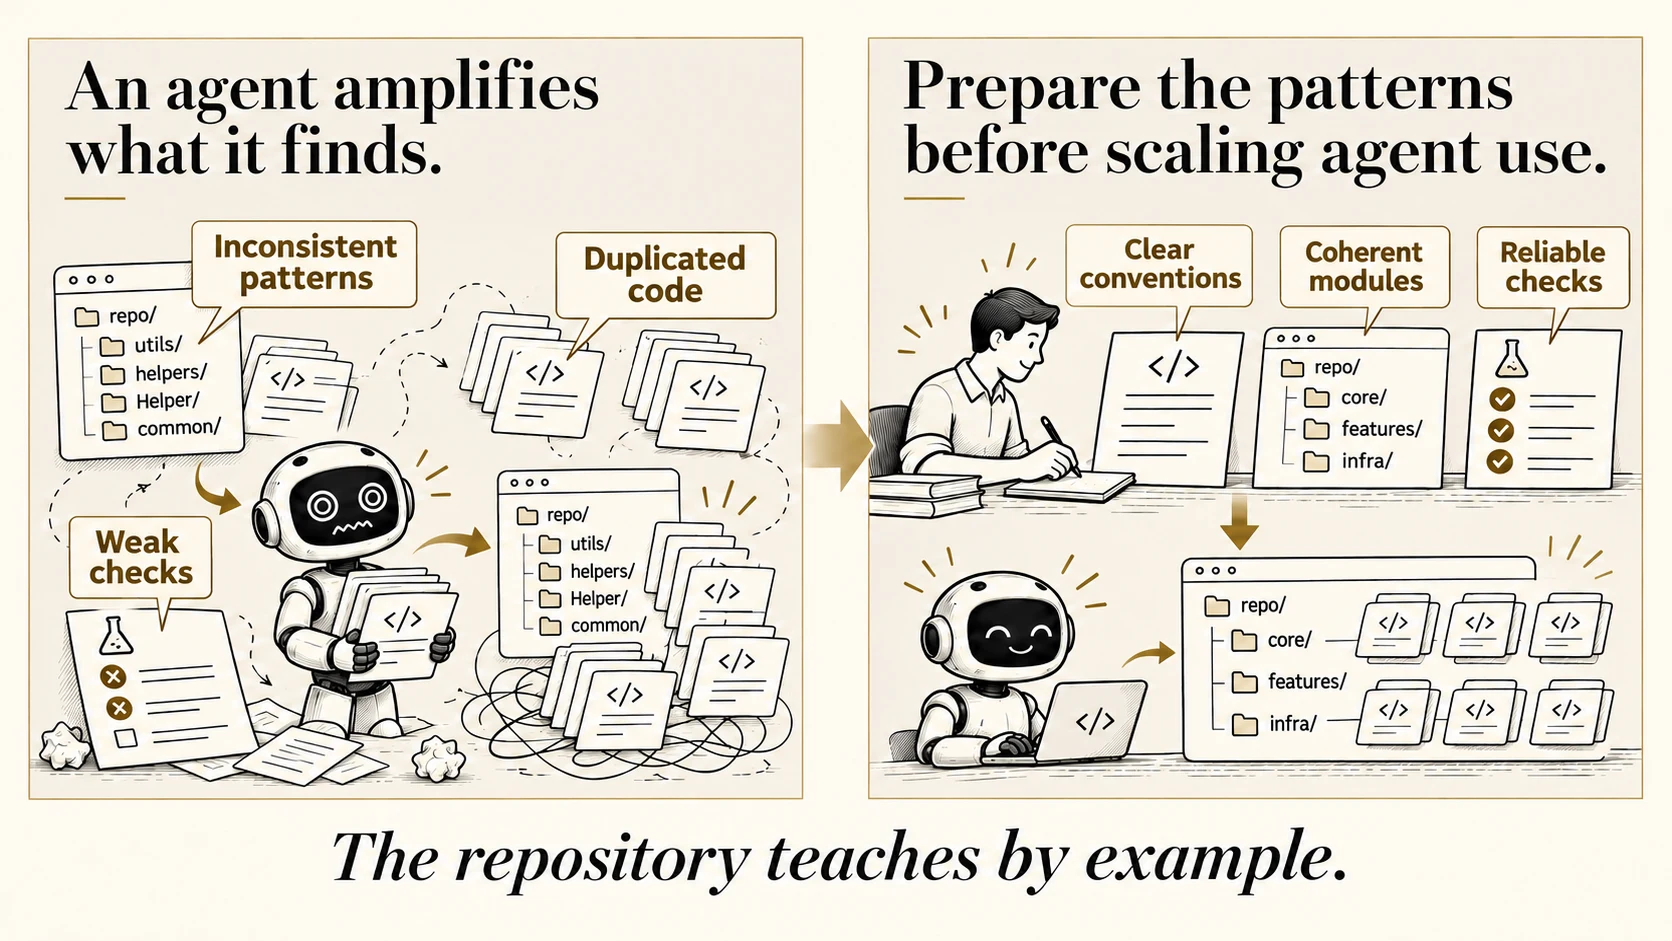
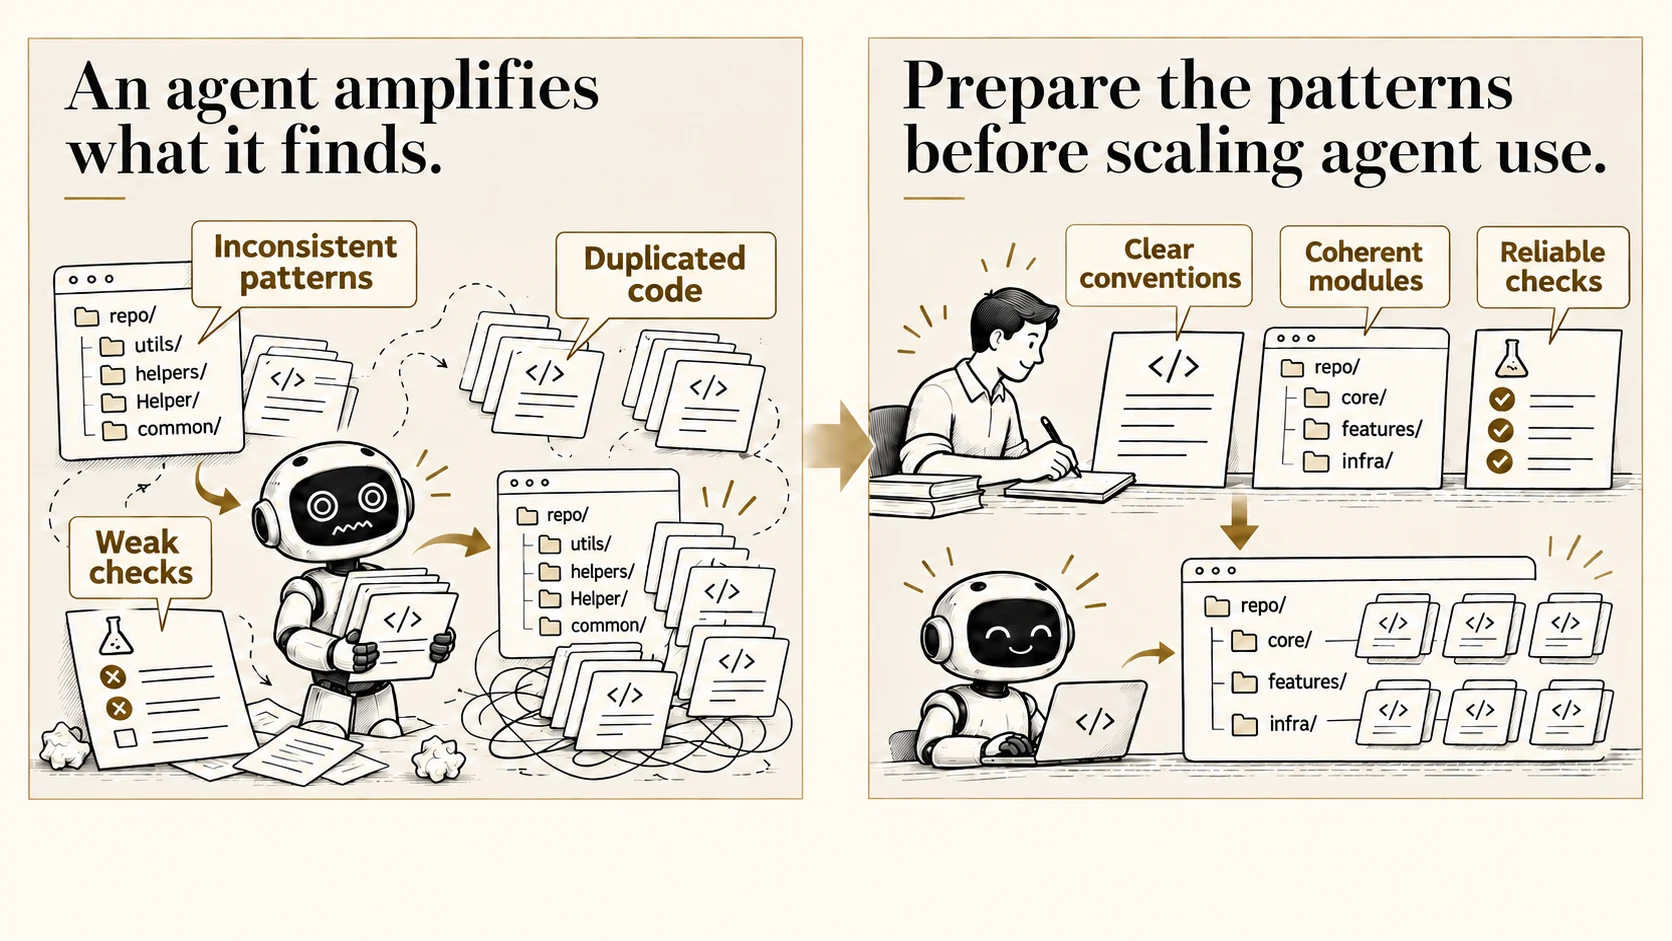
refactor(slides): shorten source note and remove artwork caption

diff --git a/media/README.md b/media/README.md
@@ -307,14 +307,14 @@ Primary request: show that a coding agent amplifies the patterns it finds in a r
 Composition: two spacious square-corner panels side by side on a flat ivory canvas, each with one elegant serif heading. LEFT panel: a messy codebase as a tangled but recognisable map of modules, duplicated code pages, inconsistent naming, and a weak test sheet with gaps. A friendly robot follows and copies those visible patterns, producing a larger tangled map and more repeated pages. Use a few large, readable labels exactly: "Inconsistent patterns", "Duplicated code", "Weak checks". Make the echo/repetition causal and visible; no scary or destructive imagery.
 RIGHT panel: a human prepares a codebase before handing it to the same friendly robot: clear module boundaries, one consistent example pattern, concise repository guidance, and reliable checks. The robot follows that example to produce matching, orderly modules. Use a few large, readable labels exactly: "Clear conventions", "Coherent modules", "Reliable checks". Human preparation must visibly happen before the robot extends the pattern.
 
-A simple restrained arrow or bridge between the two panels can show the choice to prepare before adding more agent work. Bottom caption, unboxed with generous whitespace and no horizontal rules near it, exactly: "The repository teaches by example."
+A simple restrained arrow or bridge between the two panels can show the choice to prepare before adding more agent work. Keep the bottom area as clean ivory space, without a caption or horizontal rule.
 
 Style: match the supplied deck references: refined editorial pen-and-ink infographic, ivory #fdfaf3 canvas, warm stone #e9e5db square-corner panels, near-black #141414 linework and text, restrained gold #dac284 for thin borders and dividers only, dark brown #7d6020 for readable emphasis. Bodoni/Didot-like serif headings and legible Montserrat-like sans-serif labels. Friendly small robot consistent with reference image 1. Spacious professional balance and clear visual hierarchy. Large exact labels readable when shown at 880 pixels wide.
 
 Avoid: repeating the slide title or subtitle in the image, tiny paragraphs, fabricated metrics, code snippets, logos, bright colours, green ticks, gradients, glossy 3D, rounded cards, heavy shadows, extra slogans, watermarks, slide numbers, or claims that agents automatically repair technical debt. Keep the point qualified: agents tend to reproduce the patterns their repository exposes, so prepare those patterns first.
 ```
 
-Final built-in image edit: remove the thin horizontal gold line below the bottom caption. Preserve the caption and all other artwork.
+Final built-in image edit: remove the bottom caption and leave clean ivory space. Preserve all other artwork.
 
 ### define-done.webp
 
